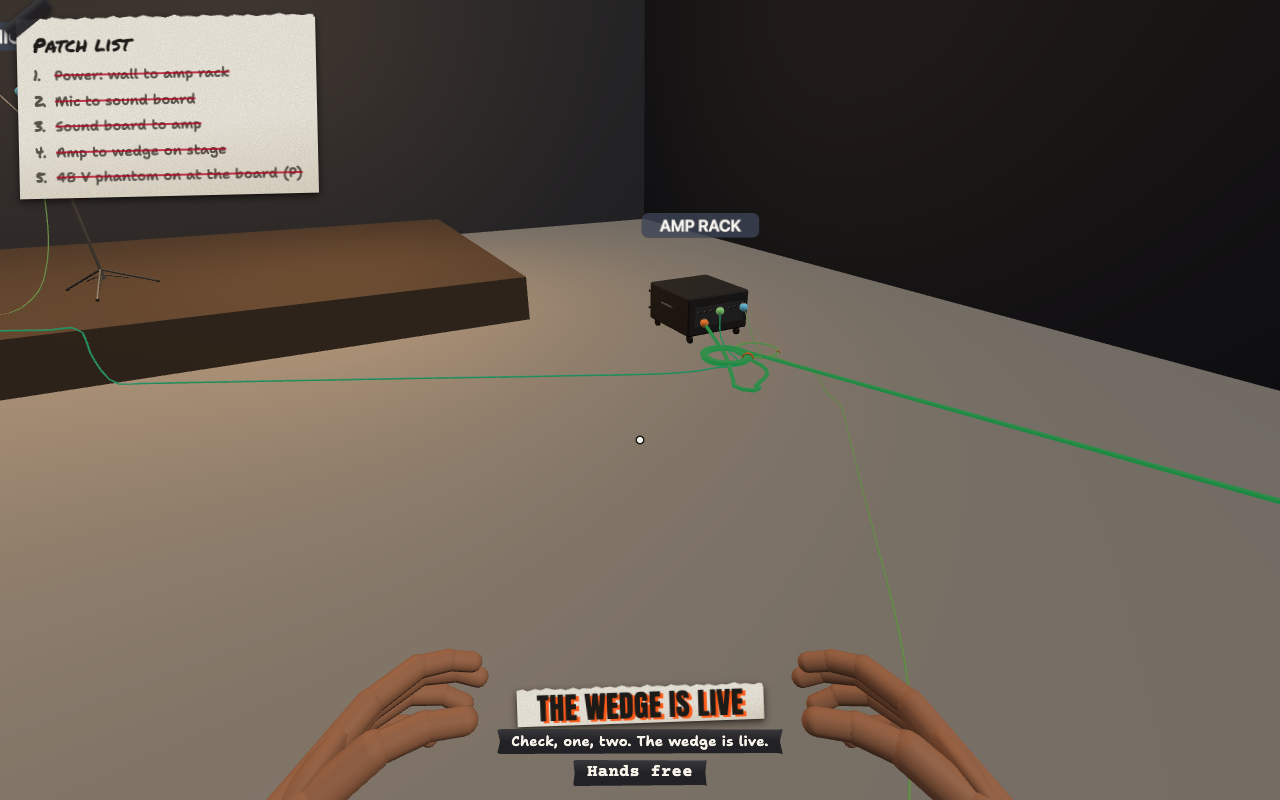
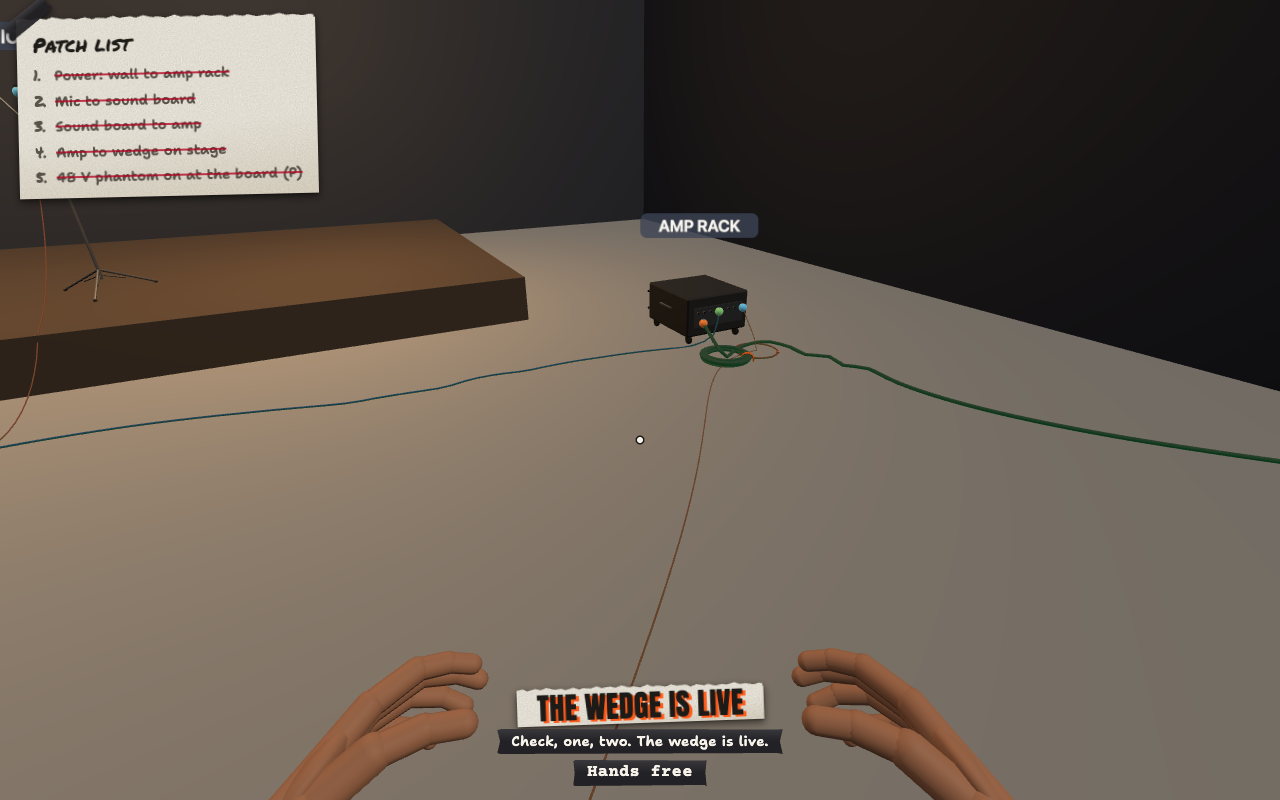
Sound Guy Simulator: a roll pays out what you walk and keeps its cable when held still, and a cable strung low across a walkway is a hazard too (Closes #5085, Part of #5029)

diff --git a/apps/load-in/src/cables/roll.ts b/apps/load-in/src/cables/roll.ts
@@ -26,6 +26,10 @@ export const rollKind = (kind: "power" | "speaker" | "xlr" | "instrument" | "rca
 /** The coil's radius in metres, what an arm can put into a throw (joules) and the fastest it swings (m/s). */
 export const ROLL_R = 0.2, ARM_J = 90, ARM_MS = 8;
 /** Rolling drag (a floppy coil on a deck, as a share of its weight) and the speed under which it falls over. */
+/** How far past its own length the laid cable must be stretched before another step of it pays out. */
+const PAY_TAUT = 1.02;
+/** The fastest cable comes off a coil, m/s. */
+const PAY_MS = 12;
 const ROLL_DRAG = 0.07, TOPPLE_MS = 0.35, G = 9.8;
 /** Friction of cable dragged along a floor, as a share of its weight. */
 const DRAG_MU = 0.6;
@@ -45,6 +49,8 @@ export interface Roll {
   paid: number;
   /** The coil's centre, its heading (radians, 0 is +z), speed, how far it has turned, and its drift to one side. */
   x: number; y: number; z: number; dir: number; v: number; spin: number; lean: number;
+  /** Whether the slack a plugged-in cable is left with has been given (once, when its inner end goes into a jack). */
+  slacked?: boolean;
   /** What dragging the laid cable weighs on your hand this tick, in kg. */
   pullKg: number;
 }
@@ -55,6 +61,7 @@ export function newRoll(kind: CableKind, lengthM: number, at: { x: number; z: nu
   return { kind, rope, state: "down", tailIn: true, paid: 0, x: at.x, y: c.radius, z: at.z, dir: 0, v: 0, spin: 0, lean: 0, pullKg: 0 };
 }
 
+const dist = (p: Vec, q: Vec) => Math.hypot(q.x - p.x, q.y - p.y, q.z - p.z);
 const step = (r: Roll) => r.rope.lengthM / (r.rope.pts.length - 1);
 /** Metres still on the coil, and what the coil weighs. */
 export const leftM = (r: Roll) => (r.state === "out" ? 0 : (r.rope.pts.length - 1 - r.paid) * step(r));
@@ -99,15 +106,29 @@ export function stepRoll(r: Roll, dt: number, pins: { a?: Vec; b?: Vec }, solids
     if (hit || r.v < TOPPLE_MS) { if (!hit) events.push("topple"); r.state = "down"; r.v = 0; r.y += CABLE[r.kind].radius - ROLL_R; }
   }
   const before = pts.map((p) => ({ x: p.x, z: p.z }));
-  stepRope(r.rope, dt, pins, solids);
+  // The coil holds the cable where it leaves it: without this the hanging cable sags away from the coil every tick,
+  // and the coil pays out to follow it (two metres for each one walked).
+  const held = r.state !== "out" && !r.tailIn && r.paid + 1 < n ? { i: r.paid + 1, at: mouth(r) } : undefined;
+  stepRope(r.rope, dt, { ...pins, mid: held }, solids);
   if (r.state !== "out") {
     const m = mouth(r);
-    if (!r.tailIn) for (;;) {
-      const p = pts[r.paid]!, dx = m.x - p.x, dy = m.y - p.y, dz = m.z - p.z, d = Math.hypot(dx, dy, dz);
-      if (d <= L || r.paid >= n - 1) break;
-      const q = pts[++r.paid]!, k = L / d;
-      q.x = p.x + dx * k; q.y = p.y + dy * k; q.z = p.z + dz * k;
-      Object.assign(prev[r.paid]!, q);
+    if (!r.tailIn) {
+      // The coil pays out when the cable already off it is pulled taut: its path, end to mouth, longer than the cable
+      // laid so far. A hanging or slack cable pays nothing (a coil held still keeps its cable), and a loose end with
+      // nothing holding it just drags behind you.
+      let laid = dist(pts[r.paid]!, m);
+      for (let i = 0; i < r.paid; i++) laid += dist(pts[i]!, pts[i + 1]!);
+      // No faster than PAY_MS (one step a tick at 60 a second; faster than any arm bowls): a stretch that is only the solver catching up
+      // with a jump settles over the next ticks and is not paid for all at once.
+      let want = Math.min(r.paid + Math.max(1, Math.ceil((PAY_MS * dt) / L)), Math.ceil(laid / (L * PAY_TAUT)) - 1);
+      // Plugged in, a run is left some slack (half a metre and a twentieth of its length), so it lies on the floor
+      // and does not hang tight between two jacks.
+      if (r.state === "tied" && !r.slacked) { want = Math.max(want, r.paid) + Math.ceil((0.5 + laid * 0.05) / L); r.slacked = true; }
+      if (r.state !== "tied") r.slacked = false;
+      while (r.paid < n - 1 && r.paid < want) {
+        r.paid++;
+        Object.assign(pts[r.paid]!, m); Object.assign(prev[r.paid]!, m);
+      }
     }
     if (r.paid >= n - 1) { r.state = "out"; events.push("out"); }
     else for (let i = r.tailIn ? 0 : r.paid + 1; i < n; i++) {

diff --git a/apps/load-in/src/cables/rope.ts b/apps/load-in/src/cables/rope.ts
@@ -42,10 +42,11 @@ function lieOn(p: Vec, s: Solid, THICK: number) {
 }
 
 /**
- * One tick: gravity, the floor and the boxes, and the step between points. `pins` holds the ends that are held
+ * One tick: gravity, the floor and the boxes, and the step between points. `pins.mid` holds one point part way along
+ * (a coil's mouth, where cable leaves it: the cable hangs from there). `pins` holds the ends that are held
  * (index 0 and the last), each at a fixed place; an unpinned end lies loose.
  */
-export function stepRope(r: Rope, dt: number, pins: { a?: Vec; b?: Vec }, solids: readonly Solid[]) {
+export function stepRope(r: Rope, dt: number, pins: { a?: Vec; b?: Vec; mid?: { i: number; at: Vec } }, solids: readonly Solid[]) {
   const { pts, prev } = r, n = pts.length, L = seg(r), f = r.feel, th = f?.thick ?? THICK;
   for (let i = 0; i < n; i++) {
     const p = pts[i]!, q = prev[i]!;
@@ -59,12 +60,13 @@ export function stepRope(r: Rope, dt: number, pins: { a?: Vec; b?: Vec }, solids
   for (let it = 0; it < ITER; it++) {
     if (pins.a) Object.assign(pts[0]!, pins.a);
     if (pins.b) Object.assign(pts[n - 1]!, pins.b);
+    if (pins.mid) Object.assign(pts[pins.mid.i]!, pins.mid.at);
     for (let i = 0; i < n - 1; i++) {
       const p = pts[i]!, q = pts[i + 1]!;
       const dx = q.x - p.x, dy = q.y - p.y, dz = q.z - p.z, d = Math.hypot(dx, dy, dz);
       // A rope, not a rod: points closer than a step stay put (slack), farther ones pull together.
       if (d <= L || d === 0) continue;
-      const pa = i === 0 && pins.a ? 0 : 1, pb = i + 1 === n - 1 && pins.b ? 0 : 1;
+      const pa = (i === 0 && pins.a) || pins.mid?.i === i ? 0 : 1, pb = (i + 1 === n - 1 && pins.b) || pins.mid?.i === i + 1 ? 0 : 1;
       if (pa + pb === 0) continue;
       const k = (d - L) / d / (pa + pb);
       p.x += dx * k * pa; p.y += dy * k * pa; p.z += dz * k * pa;

diff --git a/apps/load-in/src/cables/cables.ts b/apps/load-in/src/cables/cables.ts
@@ -385,6 +385,8 @@ export function linkRamp(w: World, key: string): boolean {
 }
 
 /** Cables lying across a walkway with no ramp over them: trip hazards, one per cable per walkway. */
+/** A cable this low over a walkway trips people, lying on it or strung across it below the knee (metres). */
+const TRIP_M = 0.25;
 export function hazards(w: World, c: Cables): { cable: string; walkway: string; x: number; z: number }[] {
   const ramps = w.items.filter((i) => i.gear === "cable-ramp-2ch" && i.key !== w.held?.key && dims(i)[1] < LOW);
   const covered = (p: Vec) => ramps.some((r) => {
@@ -395,7 +397,7 @@ export function hazards(w: World, c: Cables): { cable: string; walkway: string; 
   for (const run of c.runs) {
     if (!run.rope) continue;
     for (const way of w.level.walkways ?? []) {
-      const on = run.rope.pts.filter((p) => p.y < 0.03 && p.x >= way.x0 && p.x <= way.x1 && p.z >= way.z0 && p.z <= way.z1 && !covered(p));
+      const on = run.rope.pts.filter((p) => p.y < TRIP_M && p.x >= way.x0 && p.x <= way.x1 && p.z >= way.z0 && p.z <= way.z1 && !covered(p));
       if (!on.length) continue;
       const m = on[Math.floor(on.length / 2)]!;
       out.push({ cable: run.key, walkway: way.name, x: cm(m.x), z: cm(m.z) });

diff --git a/apps/load-in/test/roll.test.ts b/apps/load-in/test/roll.test.ts
@@ -55,3 +55,20 @@ test("dragging laid feeder weighs on your hand, a mic cable hardly does, and a p
   expect(mic.peak).toBeLessThan(1);
   expect(feeder.peak).toBeGreaterThan(mic.peak * 3);
 });
+
+test("a roll held still keeps its cable, and a walk pays out about what you walk (#5085)", () => {
+  // The end is in a wall jack; you stand by it with the 10 m roll in your hand, then walk 4 m away at a carrying pace.
+  const r = newRoll("power", 10, { x: 0, z: 0 }), rnd = mulberry32(7), wall = { x: 0, y: 0.3, z: 0 };
+  r.state = "held"; r.tailIn = false;
+  Object.assign(r, { x: 0, y: 1, z: 0.4 });
+  for (let i = 0; i < 120; i++) stepRoll(r, DT, { a: wall }, [], rnd, "b");
+  // Two seconds standing: the cable hangs from the coil to the jack, and no more comes off.
+  expect(leftM(r)).toBeGreaterThan(8.5);
+  const before = leftM(r);
+  for (let i = 0; i < 240; i++) { r.z += 1 * DT; stepRoll(r, DT, { a: wall }, [], rnd, "b"); }
+  const paid = before - leftM(r);
+  expect(paid).toBeGreaterThan(3.4);
+  expect(paid).toBeLessThan(4.8);
+  // And it is all still cable: what is off the coil is as long as it should be, not stretched.
+  expect(pathLength(r.rope)).toBeLessThan((10 - leftM(r)) * 1.05 + 0.3);
+});

diff --git a/apps/load-in/feel.html b/apps/load-in/feel.html
@@ -87,8 +87,8 @@
     <p class="blurb">Pick up a roll, plug its end in where the run starts, bowl the roll toward where it ends, then carry what is left and plug that in. Power first, then signal.</p>
     <table class="paper tape-r">
       <tr><td>Power feeder</td><td>15 m</td><td>16.5 kg</td></tr>
-      <tr><td>Speaker cable</td><td>15 m</td><td>3.2 kg</td></tr>
-      <tr><td>Mic cable</td><td>20 m</td><td>1.2 kg</td></tr>
+      <tr><td>Speaker cable</td><td>10 m</td><td>2.1 kg</td></tr>
+      <tr><td>Mic cable</td><td>15 m</td><td>0.9 kg</td></tr>
     </table>
     <p class="keys">WASD walk. Click the room to look (or drag). F grabs, plugs and puts down. Hold the mouse or Space to wind up, let go to bowl. P at the board for 48 V. Hold Y to look at your arms. R starts over. On a phone: left thumb walks, right thumb looks.</p>
     <div id="ink-host"></div>

diff --git a/apps/load-in/src/feel/main.ts b/apps/load-in/src/feel/main.ts
@@ -126,7 +126,7 @@ function run(key: string, kind: CableKind, lengthM: number, x: number, z: number
 let runs: Run[] = [];
 function layOut() {
   for (const r of runs) scene.remove(r.tube, r.coil, r.plugA, r.plugB);
-  runs = [run("feeder", "power", 15, -4.4, 5.3), run("mic-cable", "xlr", 20, -3.7, 5.3), run("desk-cable", "xlr", 20, -3.0, 5.3), run("speaker-cable", "speaker", 15, -2.3, 5.3)];
+  runs = [run("feeder", "power", 15, -4.4, 5.3), run("mic-cable", "xlr", 15, -3.7, 5.3), run("desk-cable", "xlr", 15, -3.0, 5.3), run("speaker-cable", "speaker", 10, -2.3, 5.3)];
 }
 
 // ---- you ------------------------------------------------------------------------------------------------------
